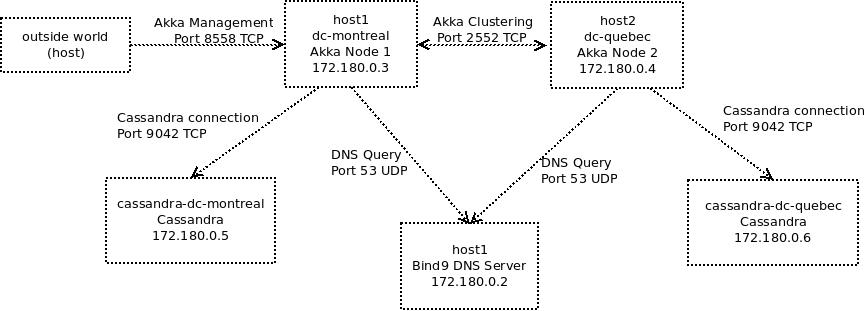
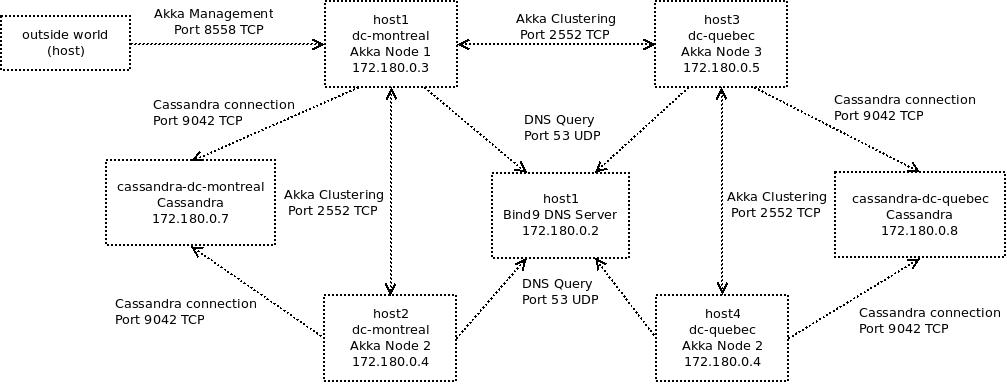
Updated diagram, changed command in readme.

diff --git a/README.md b/README.md
@@ -19,7 +19,7 @@ Part of the cluster, namely the Entity is using Akka-Typed which at the time thi
 
 ## Usage
 
-Simply invoke `docker-compose -f docker-compose.yml up` to start the cluster and wait for the cluster to come up:
+Simply invoke `docker-compose up` to start the cluster and wait for the cluster to come up:
 
 ![Alt Text](images/docker-compose1.gif)
 
